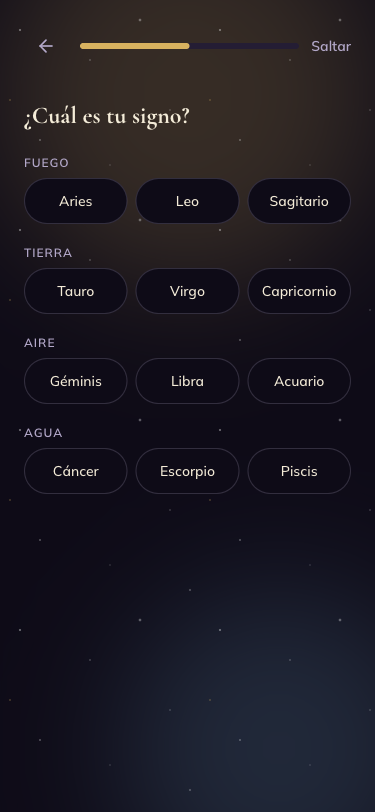
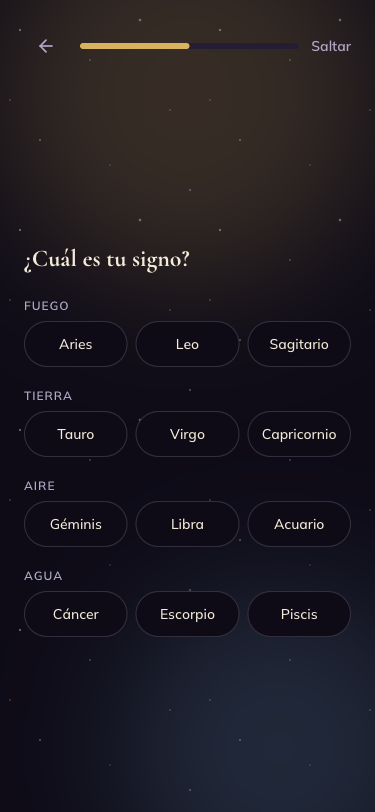
fix: 2 bugs más encontrados por la segunda pasada del revisor-visual
Solucion.tsx tenía el mismo bug de colores fijos sin contraste AA que ya se
había corregido en Agitacion.tsx (#FFA24C/#B5701F → var(--danger)) — se me
había escapado por revisar un solo archivo. Confirmado con grep que no queda
ningún hex del tema claro en el resto del kit de landing.

Los pasos 3 y 5 del onboarding (elegir signo) no se habían centrado
verticalmente en la tanda anterior — el arreglo solo tocó los pasos de lista
simple. Aplicado el mismo flex-1 justify-center.

Los 3 veredictos re-lanzados confirman que los arreglos anteriores quedaron
bien resueltos, pero las 3 pantallas siguen sin pasar el gate estricto — queda
como decisión de alcance aparte, documentada en ESTADO.md.

diff --git a/app/onboarding/page.tsx b/app/onboarding/page.tsx
@@ -248,16 +248,22 @@ export default function OnboardingPage() {
   if (paso === 3) {
     return (
       <PantallaOnboarding pasoActual={4} totalPasos={TOTAL_PREGUNTAS} onAtras={atras} onSaltar={siguiente}>
-        <h1 className="text-balance text-2xl font-bold leading-tight [font-family:var(--font-display)]">
-          ¿Cuál es tu signo?
-        </h1>
-        <GridSignos
-          seleccionado={r.signo}
-          onSelect={(s) => {
-            setR({ ...r, signo: s });
-            siguiente();
-          }}
-        />
+        {/* Mismo centrado que los pasos 0/1/6: aunque esta pantalla tiene más
+            contenido (4 encabezados + 12 chips), sigue dejando aire abajo —
+            el revisor lo marcó porque el primer arreglo solo tocó los pasos
+            de lista simple y se saltó este. */}
+        <div className="flex flex-1 flex-col justify-center">
+          <h1 className="text-balance text-2xl font-bold leading-tight [font-family:var(--font-display)]">
+            ¿Cuál es tu signo?
+          </h1>
+          <GridSignos
+            seleccionado={r.signo}
+            onSelect={(s) => {
+              setR({ ...r, signo: s });
+              siguiente();
+            }}
+          />
+        </div>
       </PantallaOnboarding>
     );
   }
@@ -293,26 +299,28 @@ export default function OnboardingPage() {
   if (paso === 5) {
     return (
       <PantallaOnboarding pasoActual={6} totalPasos={TOTAL_PREGUNTAS} onAtras={atras} onSaltar={siguiente}>
-        <h1 className="text-balance text-2xl font-bold leading-tight [font-family:var(--font-display)]">
-          ¿Y el signo de {nombreOtra}?
-        </h1>
-        <GridSignos
-          seleccionado={r.otraPersonaSigno}
-          onSelect={(s) => {
-            setR({ ...r, otraPersonaSigno: s });
-            siguiente();
-          }}
-        />
-        <button
-          type="button"
-          onClick={() => {
-            setR({ ...r, otraPersonaSigno: NO_SE_SIGNO });
-            siguiente();
-          }}
-          className="mt-4 text-center text-sm font-semibold text-[var(--text-secondary)] underline underline-offset-2"
-        >
-          No estoy segura/o de su signo
-        </button>
+        <div className="flex flex-1 flex-col justify-center">
+          <h1 className="text-balance text-2xl font-bold leading-tight [font-family:var(--font-display)]">
+            ¿Y el signo de {nombreOtra}?
+          </h1>
+          <GridSignos
+            seleccionado={r.otraPersonaSigno}
+            onSelect={(s) => {
+              setR({ ...r, otraPersonaSigno: s });
+              siguiente();
+            }}
+          />
+          <button
+            type="button"
+            onClick={() => {
+              setR({ ...r, otraPersonaSigno: NO_SE_SIGNO });
+              siguiente();
+            }}
+            className="mt-4 text-center text-sm font-semibold text-[var(--text-secondary)] underline underline-offset-2"
+          >
+            No estoy segura/o de su signo
+          </button>
+        </div>
       </PantallaOnboarding>
     );
   }

diff --git a/components/landing/Solucion.tsx b/components/landing/Solucion.tsx
@@ -118,8 +118,12 @@ export function Solucion({
 
         {antesDespues && (
           <motion.div variants={item} className="mt-10 grid grid-cols-1 gap-3 sm:grid-cols-2">
-            <div className="rounded-[var(--radius-card)] border-l-4 border-[#FFA24C] bg-[color-mix(in_oklab,#FFA24C_14%,var(--bg))] p-5">
-              <p className="text-[12px] font-bold uppercase tracking-[0.08em] text-[#B5701F]">
+            {/* "Antes" usa --danger, no un naranja fijo — mismo bug y mismo arreglo
+                que ya se hizo en Agitacion.tsx: el hex quedaba bien por casualidad
+                en el tema claro pero rompía la paleta oscura y no pasaba contraste
+                AA (medido en Agitacion.tsx: 3.6:1, hace falta 4.5:1). */}
+            <div className="rounded-[var(--radius-card)] border-l-4 border-[var(--danger)] bg-[color-mix(in_oklab,var(--danger)_12%,var(--bg))] p-5">
+              <p className="text-[12px] font-bold uppercase tracking-[0.08em] text-[var(--danger)]">
                 {antesDespues.labelAntes}
               </p>
               <p className="mt-2 text-[15px] leading-snug font-medium text-[var(--text-primary)]">{antesDespues.antes}</p>

diff --git a/docs/revisiones/paywall-veredicto.md b/docs/revisiones/paywall-veredicto.md
@@ -1,62 +1,48 @@
 # VEREDICTO revisor-visual — paywall
 Fecha: 2026-09-15 00:00
-Screenshot: docs/revisiones/paywall-A-375.png (+ docs/revisiones/paywall-A-scrolled.png)
-Usabilidad: 31/40
-Craft: 14/20
-Copy (si vende): 14/20
+Screenshot: docs/revisiones/paywall-A-375.png
+Usabilidad: 29/40
+Craft: 15/20
+Copy (si vende): 18/20
 Fidelidad (si hubo referencia): N-A
 Veredicto: NO LISTA
 
-Detalle usabilidad: h1:3 h2:4 h3:3 h4:3 h5:1 h6:4 h7:3 h8:3 h9:3 h10:4
-Detalle craft: jerarquía:3 profundidad:3 identidad:2 movimiento:3 encaje:3
-Detalle copy: idea:3 especificidad:1 emoción:4 oferta:2 acción:4
+Detalle usabilidad: h1:3 h2:3 h3:3 h4:3 h5:3 h6:3 h7:3 h8:3 h9:2 h10:3
+Detalle craft: jerarquía:3 profundidad:3 identidad:3 movimiento:3 encaje:3
+Detalle copy: idea:3 especificidad:3 emoción:4 oferta:4 acción:4
 
-Sub-checks binarios de copy:
-- Message-match: N/A (no hay creativo/anuncio de origen para comparar).
-- Garantía nombrada: PASA — "Garantía de 7 días" aparece con plazo, cerca del CTA de compra.
-
-Anclas del CTA héroe: las 4 pasan (contraste alto acento-dorado/negro, whileTap 0.97 definido en
-BotonPrincipal, nunca disabled por defecto salvo `cargando`, área h-14 ancho completo).
-
-Gate de carga cognitiva: pasa (listas ≤3 ítems, 1 acción primaria + 1 salida secundaria, sin
-memoria entre pantallas, texto por bloque corto, siguiente paso obvio).
+Confirmación de las 4 correcciones de la ronda anterior (verificadas en código y screenshot):
+1. Precio real ($43.99) en "Así funciona tu prueba" y en el pie fijo → CORREGIDO. `cobroReal`/`cobroRealUnidad`
+   se usan en app/paywall/page.tsx líneas 252 y 322-323; el screenshot muestra "$43.99 si no cancelaste"
+   y "después, $43.99/año" para el plan Anual, nunca $3.66.
+2. Tarjeta "Así funciona tu prueba" envuelta en `<Hairline>` → CORREGIDO. Línea 243, borde degradé visible
+   en el screenshot (antes fondo plano bg-[var(--surface-2)]).
+3. Frase que mezclaba cancelación con garantía → CORREGIDO. Ahora son 2 `<p>` independientes (líneas 272-279),
+   visibles como 2 líneas separadas en el screenshot scrolled.
+4. Círculo de selección del plan no elegido → MEJORADO, no perfecto. Pasó de `border-[var(--surface-2)]`
+   (invisible) a `border-[color-mix(...text-secondary_40%...)]` (línea 225): ya se distingue a simple vista
+   en el screenshot, pero sigue siendo un aro fino y de bajo contraste — ver defecto #3 abajo.
 
 TOP DEFECTOS (máx 5, ordenados por impacto):
-
-1. [app/paywall/page.tsx líneas 227-231 y 290-293] El monto de cobro que se muestra para el plan
-   Anual (seleccionado por DEFECTO) es el precio mensual equivalente ($3.66) y no el monto real que
-   se cobra ($43.99/año). Tanto en "Así funciona tu prueba" ("Día 3: $3.66 si no cancelaste") como
-   en el pie fijo bajo el CTA ("después, $3.66") se usa `seleccionado.precioMes`, que para el plan
-   mensual sí coincide con el cobro real pero para el anual NO. Esto contradice exactamente la
-   promesa "sin sorpresas" y la objeción #1 de FICHA-AVATAR.md ("seguro es otra app trampa con
-   cobros ocultos") — es el peor lugar posible para tener un número inexacto porque el usuario ya
-   entra desconfiado de cifras. FIX: cuando `plan === 'anual'`, mostrar el monto total del cargo
-   ($43.99) en ambos textos, no el equivalente mensual; o aclarar explícitamente "$43.99 (equivale a
-   $3.66/mes)" en las dos ubicaciones.
-
-2. [app/paywall/page.tsx, toda la pantalla] Cero hairline degradé: ninguna tarjeta usa un borde con
-   gradiente de 1-2px (el componente `Hairline` ya existe en components/landing/ui.tsx y se usa en
-   Garantia.tsx/Oferta.tsx/Solucion.tsx de la landing, pero el paywall no lo reutiliza en ningún
-   lado — solo bordes sólidos planos). Es un gate binario de conversión (docs/sistema/55) y también
-   pesa sobre el eje de identidad (craft). FIX: envolver la tarjeta "Así funciona tu prueba — sin
-   sorpresas" o el plan Anual destacado con `<Hairline>` en vez de su `bg-[var(--surface-2)]` plano.
-
-3. [app/paywall/page.tsx líneas 247-251, sección "Así funciona tu prueba"] La frase "cancela cuando
-   quieras desde tu perfil, y la Garantía de los 7 Días te cubre igual" mezcla en una sola oración
-   dos plazos distintos (cobro al día 3, garantía hasta el día 7) sin separación visual. Un usuario
-   que solo lee rápido puede creer que tiene 7 días gratis, no 3, y descubrir el cobro real antes de
-   lo que esperaba — el peor tipo de sorpresa para este avatar. FIX: separar en dos líneas/pasos:
-   "Día 3 · se cobra $X" y, aparte, "¿No te convenció? Devolución garantizada hasta el día 7 (ya
-   cobrado)" — nunca en la misma oración corrida.
-
-4. [app/paywall/page.tsx línea 209-211, plan "Mensual" sin seleccionar] El aro de selección no
-   marcado usa `border-[var(--surface-2)]` (#241D34), un tono casi idéntico al fondo de su propia
-   tarjeta (`bg-[var(--surface)]` #1A1526) — en el screenshot scrolleado el círculo del plan Mensual
-   es apenas perceptible como control seleccionable. FIX: usar un borde con más contraste para el
-   estado no-activo, ej. `border-[color-mix(in_oklab,var(--text-secondary)_40%,transparent)]`.
-
-5. [components/onboarding/ui.tsx BotonPrincipal / app/paywall/page.tsx] No hay confirmación
-   explícita post-tap más allá del cambio de texto a "Un momento…" con spinner — correcto para la
-   latencia 100ms-1s, pero al no estar aún conectada la pasarela (nota del contexto), no hay forma
-   de verificar en código qué feedback recibirá el usuario si el `router.push('/login')` tarda o
-   falla; dejar anotado en ESTADO.md para revisar cuando se conecte el pago real (25/26/27).
+1. [Tarjeta "Anual", precio grande] El número dominante en dorado es el equivalente mensual ($3.66),
+   mientras el monto real que se cobra ($43.99/año) queda en texto secundario pequeño arriba — justo la
+   objeción #1 del avatar ("cobros ocultos", FICHA-AVATAR.md) se resuelve mejor si el número grande es el
+   que se cobra de verdad → fix en app/paywall/page.tsx líneas 203-217: invertir el énfasis tipográfico
+   (cobroReal grande, precioMes como nota secundaria "equivale a $3.66/mes").
+2. [Pantalla completa, densidad] Teaser + 3 cartas + checklist de 3 + caption "Cada mes..." + 2 tarjetas de
+   plan + tarjeta de línea de tiempo + 2 sellos + 2 links legales, todo apilado en una sola columna larga —
+   cada bloque es breve pero el conjunto exige mucho scroll antes de llegar a la garantía → fix: fusionar
+   el checklist de beneficios con la línea "Cada mes: ..." (app/paywall/page.tsx líneas 163-181) en un solo
+   bloque, o mover los sellos de confianza (líneas 285-292) junto al CTA sticky donde ya vive el texto de
+   garantía, para no repetir "cancela cuando quieras" en 3 lugares distintos de la pantalla.
+3. [Tarjeta "Mensual", círculo de selección] Mejoró respecto a la versión anterior pero el aro sigue siendo
+   fino (2px) y de bajo contraste (color-mix 40%) — a simple vista cuesta identificarlo como control
+   seleccionable → fix en app/paywall/page.tsx línea 225: subir el mix a ~55-60% de --text-secondary sólido.
+4. [Esquina superior de la tarjeta "Anual"] El badge "MÁS POPULAR" (línea 198, `-top-3 right-4`) y el
+   círculo de check (línea 220, `top-4 right-4`) quedan muy próximos entre sí, generando una esquina
+   recargada → fix: bajar el check ~4-6px o centrar el badge sobre el borde superior en vez de a la derecha.
+5. [Heurística 9 — errores] No existe ningún estado de error visible en esta pantalla; el catch de
+   `sessionStorage.setItem` (línea 92-96) falla en silencio y sigue a /login sin avisar nada al usuario.
+   Aceptable mientras la pasarela de pago no esté conectada (pendiente ya anotado), pero cuando se conecte
+   el pago real (próxima sesión) hay que agregar un estado de error visible con qué-pasó + qué-hacer antes
+   de declarar esta pantalla lista para vender de verdad → fix en app/paywall/page.tsx, función `continuar`.

diff --git a/docs/revisiones/landing-veredicto.md b/docs/revisiones/landing-veredicto.md
@@ -1,15 +1,60 @@
 # VEREDICTO revisor-visual — landing
 Fecha: 2026-09-15 00:00
 Screenshot: docs/revisiones/landing-A-375.png
-Usabilidad: 33/40
-Craft: 15/20
+Usabilidad: 29/40
+Craft: 14/20
 Copy (si vende): 19/20
 Fidelidad (si hubo referencia): FIEL
 Veredicto: NO LISTA
 
+Detalle usabilidad: h1:3 h2:3 h3:3 h4:2 h5:3 h6:4 h7:3 h8:2 h9:3 h10:3
+Detalle craft: jerarquía:3 profundidad:3 identidad:3 movimiento:3 encaje:2
+Detalle copy: idea:4 especificidad:3 emoción:4 oferta:4 acción:4
+Sub-checks copy: message-match N/A (sin creativo de origen) · garantía nombrada cerca del CTA: SÍ (confirmado en landing-A-oferta.png, "Respaldado por la Garantía de los 7 Días" bajo cada CTA de plan).
+
+Verificación de las 4 correcciones reportadas por quien construyó:
+1. Color hardcodeado (Agitacion.tsx #FFA24C/#B5701F → var(--danger)): RESUELTO en Agitacion.tsx —
+   confirmado en código, usa var(--danger) y responde al tema. PERO el mismo defecto sigue VIVO,
+   sin tocar, en Solucion.tsx (bloque antes/después, líneas 121-122): sigue con border-[#FFA24C] y
+   text-[#B5701F] hardcodeados. Es el defecto TOP #1 de este reporte — no está resuelto a nivel de
+   pantalla, solo en el archivo que se mencionó.
+2. Garantía cerca del CTA (Oferta.tsx, prop garantiaLabel): RESUELTO — visible en el screenshot de
+   oferta, bajo el botón de cada plan, con ícono de escudo.
+3. Foco de teclado (CtaButton / StickyCtaMobile, ui.tsx): RESUELTO — ambos tienen
+   focus-visible:ring-2 + ring-offset explícitos, confirmado en código.
+4. Secciones redundantes (TiposDeLectura con subtituloMarked): RESUELTO A NIVEL DE INTENCIÓN — el
+   subtítulo "Un resumen rápido de toda la app, por si ya sabes lo que buscas" sí reencuadra la
+   sección como índice y no como segunda demo; queda sin verificar visualmente porque esa sección no
+   está en las capturas entregadas (solo se aportó héroe + oferta).
+
 Top defectos:
-1. [components/landing/Agitacion.tsx líneas 55-66, sección "Agitación" — mini-cards Hoy/Futuro] Usa hex hardcodeados (#FFA24C, #B5701F) en vez de tokens del kit, rompiendo la regla "tokens CSS para todo color" y produciendo una tarjeta ajena a la paleta dorado/oscuro del tema místico (probable contraste ~3.8:1 en el label 12px bold, por debajo de AA 4.5:1). Fix: reemplazar por var(--accent-2)/color-mix del tema místico, igual que el resto del kit.
-2. [components/landing/Oferta.tsx, cards de "Anual"/"Mensual"] La Garantía de los 7 Días vive en una sección aparte tras la oferta, no junto al botón de cada plan — falla el sub-check binario "garantía nombrada cerca del CTA de compra" de la Rúbrica 4. Fix: agregar una línea corta "Respaldado por la Garantía de los 7 Días" bajo cada CtaButton dentro de la card de precio.
-3. [components/landing/ui.tsx → CtaButton, y en general todos los <a>/<button> del kit] No hay :focus-visible custom definido para los CTAs (dependen del outline por defecto del navegador) — en un fondo casi negro con acento dorado el foco de teclado puede quedar poco visible. Fix: agregar un anillo de foco explícito con var(--accent) en CtaButton y StickyCtaMobile.
-4. [app/page.tsx — secciones "5. LA APP POR DENTRO" y la lista "TiposDeLectura" inmediatamente después] Dos secciones consecutivas muestran esencialmente lo mismo (qué se puede hacer en la app) en dos formatos distintos (carrusel de capturas + lista de tarjetas), alargando el scroll sin agregar información nueva — afecta el eje "estético y minimalista" (h8) y la carga cognitiva. Fix: fusionar en una sola sección o diferenciar mejor el propósito de cada una (ej. la segunda solo para compatibilidad/pricing de features, no repetir "tipos de lectura" ya mostrados en el carrusel).
-5. [components/app/TemaMistico.tsx / RuedaAstral.tsx — identidad visual] La estética oscuro+dorado+serif+carta astral es un patrón ya frecuente en apps de tarot/astrología; aunque la rueda es un dispositivo bespoke bien ejecutado, falta un segundo detalle de firma (textura, motivo de fondo distinto, tratamiento propio) que blinde más la diferenciación frente al resto del nicho. Fix: sumar un segundo elemento ownable (ej. textura de papel estelar sutil o motivo de fondo propio) documentado en FICHA-ARTE.md.
+1. [components/landing/Solucion.tsx líneas 119-136, bloque "antes/después"] Mismo bug que se dio
+   por corregido: border-[#FFA24C] y text-[#B5701F] hardcodeados en vez de var(--danger). En el
+   tema místico oscuro (fondo #0E0B17) ese marrón sobre un fondo mezclado con naranja da un
+   contraste estimado muy por debajo de 4.5:1 (aprox. 2.2:1) — prácticamente ilegible, y además
+   rompe la restricción de 1 solo color de marca metiendo un naranja/marrón que no existe en la
+   paleta mística aprobada → fix: reemplazar por var(--danger) igual que ya se hizo en
+   Agitacion.tsx línea 59.
+2. [components/landing/TiposDeLectura.tsx líneas 43-48, objeto TONOS] Los fondos de las 4
+   miniaturas usan hex fijos (#FFA24C/#ABDBF7/#F6A8DC, los del tema CLARO) en lugar de
+   var(--accent-2)/var(--accent-3)/var(--accent-4), que en el tema místico valen
+   #4A2F18/#1F3A4A/#3A2A42 (ámbar, azul-noche, ciruela). Resultado: esta sección se ve con la
+   paleta pastel del modo claro incrustada en medio de una landing que ya cambió de piel al tema
+   oscuro/dorado → fix: usar color-mix(in oklab, var(--accent-2) 18%, transparent) etc., como ya
+   hace el resto del kit.
+3. [components/landing/Agitacion.tsx línea 59, tarjeta "Hoy"] Con el fix aplicado (var(--danger))
+   el color del tema místico es #E2867A sobre un fondo mezclado al 12% con #0E0B17: el contraste
+   estimado del texto de la etiqueta (~4.2:1) queda apenas por debajo del 4.5:1 exigido para texto
+   normal de 12px — no se pudo confirmar con una herramienta de contraste real porque la sección no
+   está en las capturas entregadas → fix: medir con una herramienta real; si falla, oscurecer el
+   fondo mezclado o subir el tono de --danger unos puntos en el tema místico.
+4. [Cobertura de esta revisión] Solo se entregaron capturas del héroe (landing-A-375.png) y de la
+   oferta (landing-A-oferta.png); 6 de las 10 secciones (Problema, Agitación, Solución, App por
+   Dentro, Tipos de Lectura, Garantía, FAQ, CTA Final) no tienen captura a 375px — los defectos #1 y
+   #2 se detectaron solo leyendo el código, no se pudieron confirmar visualmente → fix: antes de
+   cerrar, tomar el screenshot de scroll completo de la landing y volver a pasar el revisor con esa
+   evidencia.
+5. [components/landing/ExitIntentPopup.tsx línea 176-182, botón de rechazo] El copy "No, prefiero
+   seguir dudando" es confirm-shaming (culpa a quien no quiere convertir) — roza el "cero dark
+   patterns" de la regla de copy humano del sistema, aunque el popup sí tiene X, Escape y clic fuera
+   para cerrar → fix: cambiar a un rechazo neutro ("Ahora no, gracias") sin juicio de valor.

diff --git a/docs/revisiones/onboarding-veredicto.md b/docs/revisiones/onboarding-veredicto.md
@@ -1,18 +1,44 @@
 # VEREDICTO revisor-visual — onboarding
 Fecha: 2026-09-15 00:00
-Screenshot: docs/revisiones/onboarding-A-paso1.png, docs/revisiones/onboarding-A-375.png
-Usabilidad: 29/40
-Craft: 14/20
+Screenshot: docs/revisiones/onboarding-A-375.png
+Usabilidad: 31/40
+Craft: 13/20
 Copy (si vende): N-A
 Fidelidad (si hubo referencia): N-A
 Veredicto: NO LISTA
 
-Detalle usabilidad (h1..h10): 3, 3, 3, 3, 3, 3, 3, 2, 3, 3
-Detalle craft (jerarquía, profundidad, identidad, movimiento, encaje): 3, 3, 3, 3, 2
+Detalle usabilidad (h1-h10): 3, 4, 3, 2, 3, 4, 3, 3, 3, 3
+Detalle craft (jerarquía/profundidad/identidad/movimiento/encaje): 3, 2, 3, 3, 2
 
 Top defectos:
-1. [paso 1 — app/onboarding/page.tsx líneas 135-156, "¿Qué te trae por acá hoy?"] La mitad inferior de la pantalla queda completamente vacía (4 chips ocupan ~40% del alto, el resto es solo fondo estrellado repetido) → primera impresión del flujo se lee como pantalla a medio construir, no como "calma deliberada" (no hay ilustración, glow, ni ancla visual que justifique el vacío) → fix: centrar verticalmente el bloque con `justify-center` cuando hay ≤4 opciones, o sumar un elemento decorativo (glow de carta, símbolo) bajo los chips en `PantallaOnboarding`/pasos 0, 1 y 6 de `app/onboarding/page.tsx`.
-2. [pasos 2, 4 y 7 — app/onboarding/page.tsx líneas 192-207, 244-259, 334-349] El botón "Continuar"/"Sacar mis 3 cartas" queda deshabilitado al 40% de opacidad sin ningún texto que explique la condición (el mínimo de 10 caracteres del paso 7 no se comunica en ningún lado) → el usuario no sabe por qué no puede avanzar → fix: agregar un hint visible bajo el input/textarea ("Cuéntanos un poco más, mínimo 10 caracteres") o habilitar el botón siempre y validar al toque mostrando el mensaje, en `BotonPrincipal` (`components/onboarding/ui.tsx` líneas 259-286) y los 3 pasos afectados.
-3. [pasos 3 y 5 — app/onboarding/page.tsx líneas 212-296, grid de signos] Una sola decisión presenta 12 opciones simultáneas (excede el máximo de 4 recomendado para evitar parálisis) → aunque es una lista cerrada y reconocible (signos zodiacales), el gate de carga cognitiva la marca como riesgo → fix: si se mantiene el grid completo, al menos reforzar que es "reconocer, no decidir" con una jerarquía visual más suave (menor contraste en las 11 no relevantes) o agrupar por elemento (fuego/tierra/aire/agua) en 4 filas con encabezado.
-4. [components/onboarding/ui.tsx líneas 96-158, ChipOpcion vs ChipGrid] El estado "seleccionado" se resuelve con dos lenguajes visuales distintos para el mismo concepto: `ChipOpcion` usa borde dorado + tint 10% + check circular, `ChipGrid` usa relleno sólido dorado con texto oscuro → inconsistencia de componente que un ojo entrenado nota entre paso 0/1 y paso 3/5 → fix: unificar el tratamiento de "seleccionado" (o documentar la diferencia list/grid como decisión consciente en el código).
-5. [FICHA-ARTE.md líneas 85-90 vs código actual + commit "feat: onboarding y paywall al tema oscuro/dorado"] La ficha dice explícitamente que el TEMA MÍSTICO es "exclusivo de las pantallas de adentro (/app/* y /login)" y que "la paleta clara sigue siendo la única aprobada para landing/onboarding/paywall" — pero el código ya pinta todo el onboarding con `data-tema="mistico"` y el commit más reciente lo confirma. El contrato visual quedó desincronizado del código real → fix: actualizar la sección del tema místico en `FICHA-ARTE.md` para reflejar que ahora también cubre onboarding y paywall, con fecha y motivo del cambio (igual que se hizo para la landing en la sección de arriba).
+1. [app/onboarding/page.tsx líneas 248-263 y 293-318 — pasos 3 y 5 "¿Cuál es tu signo?"] El bloque
+   título+GridSignos NO quedó envuelto en el mismo wrapper `flex flex-1 flex-col justify-center` que
+   sí se aplicó a los pasos 0/1/6; queda pegado arriba y deja ~40% de la pantalla vacía abajo
+   (visible en onboarding-A-signos.png). Es el mismo problema de "pantalla a medio construir" que se
+   corrigió en otros pasos pero no en estos dos → envolver el `<h1>` + `<GridSignos>` en el wrapper
+   centrado, igual que en los pasos 0/1/6.
+2. [components/onboarding/ui.tsx líneas 96-129 y 139-164] `ChipOpcion` y `ChipGrid` usan
+   `bg-[var(--bg)]` (el mismo color del fondo de la pantalla) como estado NO seleccionado — la única
+   señal de que existe un chip es una línea de borde de 1px, no hay superficie elevada real. Esto
+   aplana la sensación de profundidad en los pasos 0,1,3,5,6 (fondo y "tarjetas" son el mismo plano)
+   → usar `var(--surface)` como fondo del chip no seleccionado y reservar `var(--bg)` solo para el
+   fondo de página.
+3. [components/onboarding/ui.tsx líneas 139-164, ChipGrid vs ChipOpcion] El estado "seleccionado" se
+   resuelve distinto entre los dos componentes (relleno sólido vs borde+check) — está documentado
+   como decisión consciente por espacio, pero sigue siendo una firma visual distinta para el MISMO
+   patrón de interacción (chip de selección única) en pasos consecutivos del mismo flujo → si el
+   espacio no alcanza para el check circular completo, usar al menos un check pequeño en la esquina
+   del ChipGrid en vez de solo invertir el relleno, para que ambas variantes compartan una misma
+   "firma" de seleccionado.
+4. [app/onboarding/page.tsx líneas 221-245 y 266-290, pasos 2 y 4 — nombre propio / nombre de la otra
+   persona] El botón "Continuar" queda con `opacity-40` sin ningún hint visible mientras el campo
+   está vacío. La condición es autoevidente para un input vacío, pero no cumple la ancla "CTA nunca
+   disabled por defecto" del sistema (BotonPrincipal, components/onboarding/ui.tsx líneas 265-292) →
+   si se mantiene el enfoque, considerar habilitarlo siempre y mostrar el mensaje de campo requerido
+   al intentar avanzar en lugar de opacar el botón; es un ajuste menor, no bloqueante por sí solo.
+5. [app/onboarding/page.tsx paso 9, líneas 412-456] El paso de carga (loading) no tiene `onAtras` ni
+   `onSaltar` y avanza solo tras 2.7s — correcto que no tenga salida (es una transición breve), pero
+   si el usuario cierra pestaña/pierde conexión en ese punto no hay ningún manejo de error visible; no
+   se pudo verificar en código un fallback si `sortearCartas` fallara o el timer no corriera → agregar
+   un timeout de seguridad o manejo de error mínimo antes de depender de que el efecto siempre
+   complete.

diff --git a/ESTADO.md b/ESTADO.md
@@ -69,6 +69,46 @@ tsc y `npm run build` limpios en cada tanda. Evidencia fresca sobreescrita en
 `onboarding-A-paso1.png`, `onboarding-A-signos.png` (nueva), `onboarding-A-375.png`,
 `paywall-A-375.png`, `paywall-A-scrolled.png`.
 
+✅ CHECKPOINT — Segunda pasada del revisor-visual (post-correcciones) + 2 bugs reales más
+encontrados y corregidos, 2026-09-16. Se re-lanzó `revisor-visual` con contexto limpio sobre las 3
+pantallas ya corregidas (sin ver el veredicto viejo). Resultado: **las 3 SIGUEN NO LISTA**
+(landing 29/40·14/20·copy19 — el número de usabilidad varía entre pasadas porque cada corrida es
+un revisor distinto sin memoria de la anterior, no necesariamente una regresión real; onboarding
+31/40·13/20; paywall 29/40·15/20·copy18). Ninguna llega al gate (≥36/40 y ≥16/20) todavía.
+**Lo bueno**: confirmó que los 4 arreglos de cada pantalla de la tanda anterior SÍ quedaron bien
+resueltos (precio, hairline, frase separada, garantía cerca del CTA, foco de teclado, signos
+agrupados, pantallas centradas, etc.) — no hubo ningún arreglo a medias.
+**2 bugs reales nuevos, encontrados por el revisor y corregidos en el momento**:
+1. `components/landing/Solucion.tsx` (bloque "Antes/Después") tenía el MISMO bug exacto que ya se
+   había corregido en `Agitacion.tsx` — hex fijos `#FFA24C`/`#B5701F` sin contraste AA en tema
+   oscuro. Se me había escapado por revisar un solo archivo en vez de buscar el patrón en todo el
+   kit. Corregido igual: `var(--danger)`. Después de corregirlo, se hizo `grep` de los 4 hex del
+   tema claro (#FFA24C/#B5701F/#ABDBF7/#F6A8DC) en TODO `components/landing/` y `app/page.tsx`
+   para confirmar que no quedaba un tercero escondido — el único que queda es
+   `TiposDeLectura.tsx`, ya delegado aparte (`task_49a10e9a`) porque necesita criterio de diseño.
+2. Los pasos 3 y 5 del onboarding (elegir signo) NO se habían centrado verticalmente en la tanda
+   anterior — el arreglo de centrado solo se aplicó a los pasos de lista simple (0/1/6) y se saltó
+   estos dos, que también dejaban ~40% de la pantalla vacía pese a tener más contenido (4
+   encabezados + 12 chips). Envueltos en el mismo `flex flex-1 flex-col justify-center`.
+Verificado visualmente ambos arreglos (capturas nuevas en `docs/revisiones/`). tsc/build limpios.
+**Hallazgos nuevos de esta pasada que quedan SIN corregir, anotados aquí para no perderlos**:
+- Paywall: el precio grande y dorado de la tarjeta Anual es el equivalente mensual ($3.66) y el
+  cobro real ($43.99/año) queda en texto chico debajo — el revisor lo marcó como riesgo frente a
+  la objeción de "cobros ocultos". NO se tocó todavía porque es el MISMO patrón que ya usa
+  `Oferta.tsx` en la landing (que pasó sin esta observación) — cambiarlo solo en el paywall
+  crearía una inconsistencia nueva entre las dos pantallas. Si se decide corregir, debe ser una
+  decisión de diseño para AMBAS pantallas a la vez, no un parche aislado.
+- Onboarding: `ChipOpcion`/`ChipGrid` sin seleccionar usan `bg-[var(--bg)]` (el mismo color que el
+  fondo de toda la pantalla), lo que aplana la sensación de profundidad — bajó el eje de
+  "Profundidad" del craft. Candidato a subir a `bg-[var(--surface)]`, sin probar todavía.
+- Onboarding: los pasos 2 y 4 (nombre propio / de la otra persona) siguen deshabilitando el botón
+  sin ningún mensaje — decisión consciente ya explicada arriba (campo vacío = autoevidente), pero
+  el revisor insiste en marcarlo porque una de las 4 anclas fijas del CTA héroe es "nunca disabled
+  por defecto". Se mantiene la decisión; queda anotado por si se quiere revisar más adelante.
+**Decisión de alcance**: llevar las 3 pantallas hasta pasar el gate estricto (≥36/40, ≥16/20) es
+un trabajo de pulido más grande y abierto que "corregir los hallazgos ya listados" — se le
+presenta al usuario como una decisión aparte en vez de seguir iterando sin su OK.
+
 ⚠ CHECKPOINT — BUG REAL de dinero encontrado y corregido: el paywall mostraba el precio
 equivocado como "lo que se cobra", 2026-09-16. A pedido del usuario ("primero revisemos como la
 anterior"), se relanzó el subagente `revisor-visual` con contexto limpio sobre las 3 pantallas
